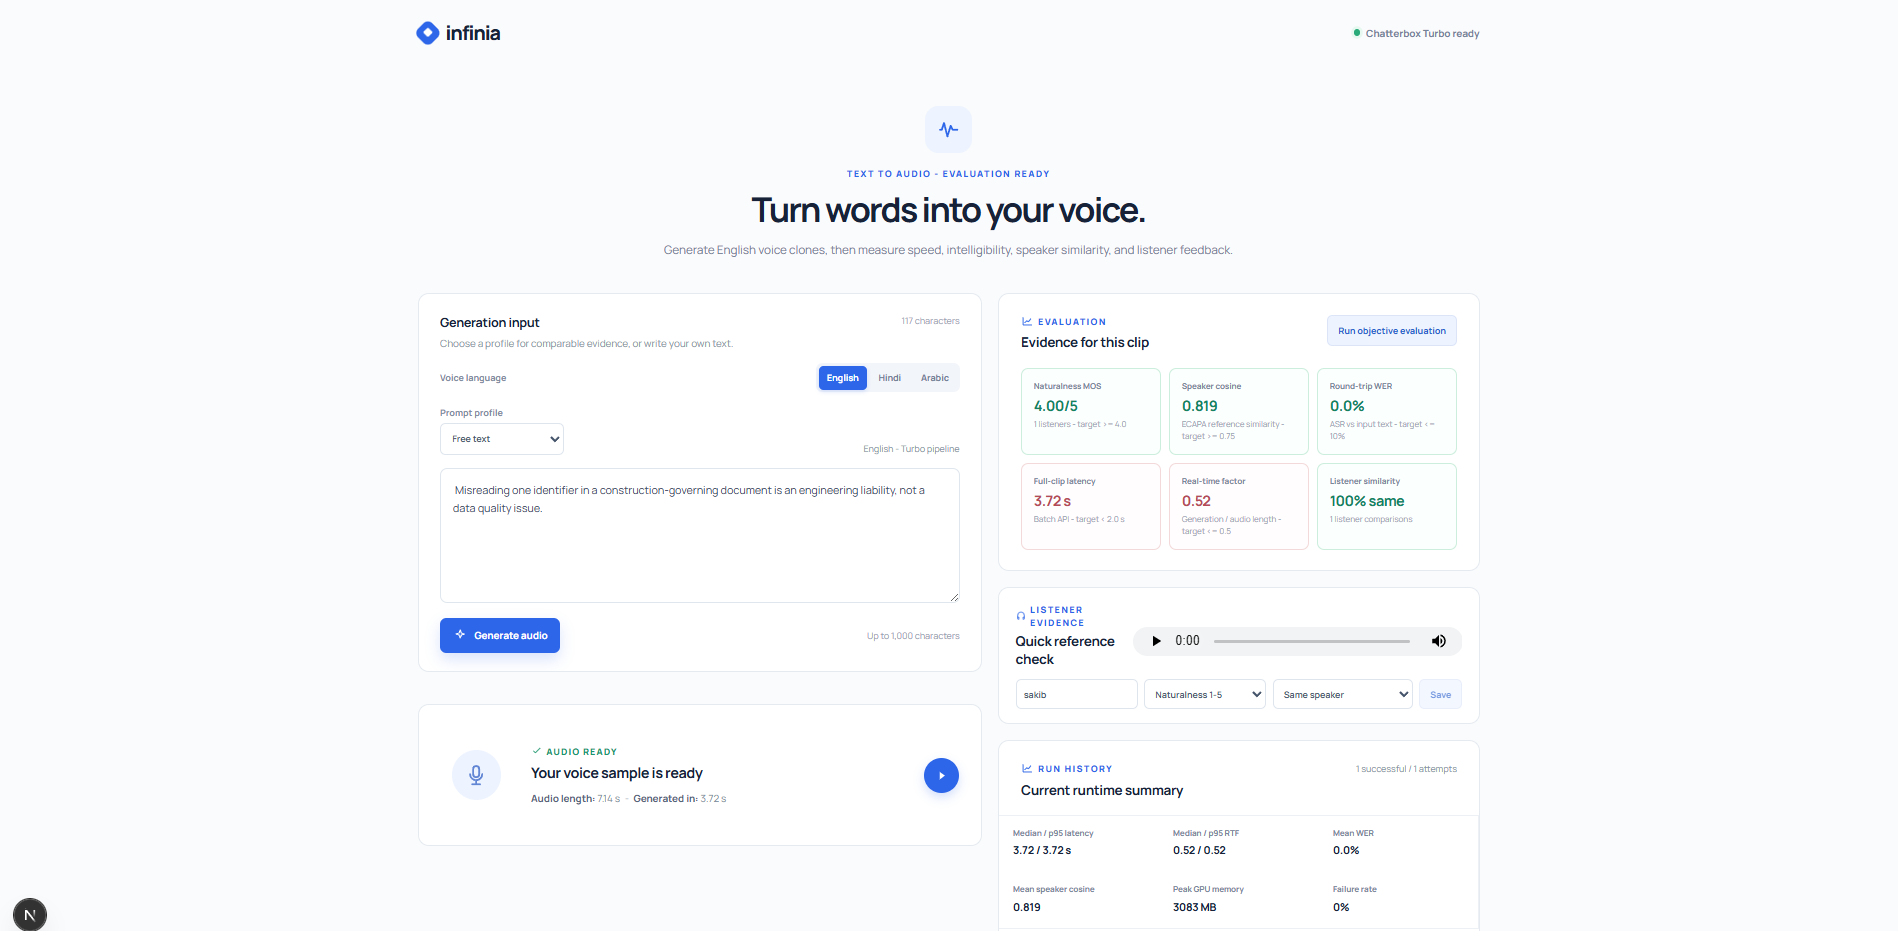
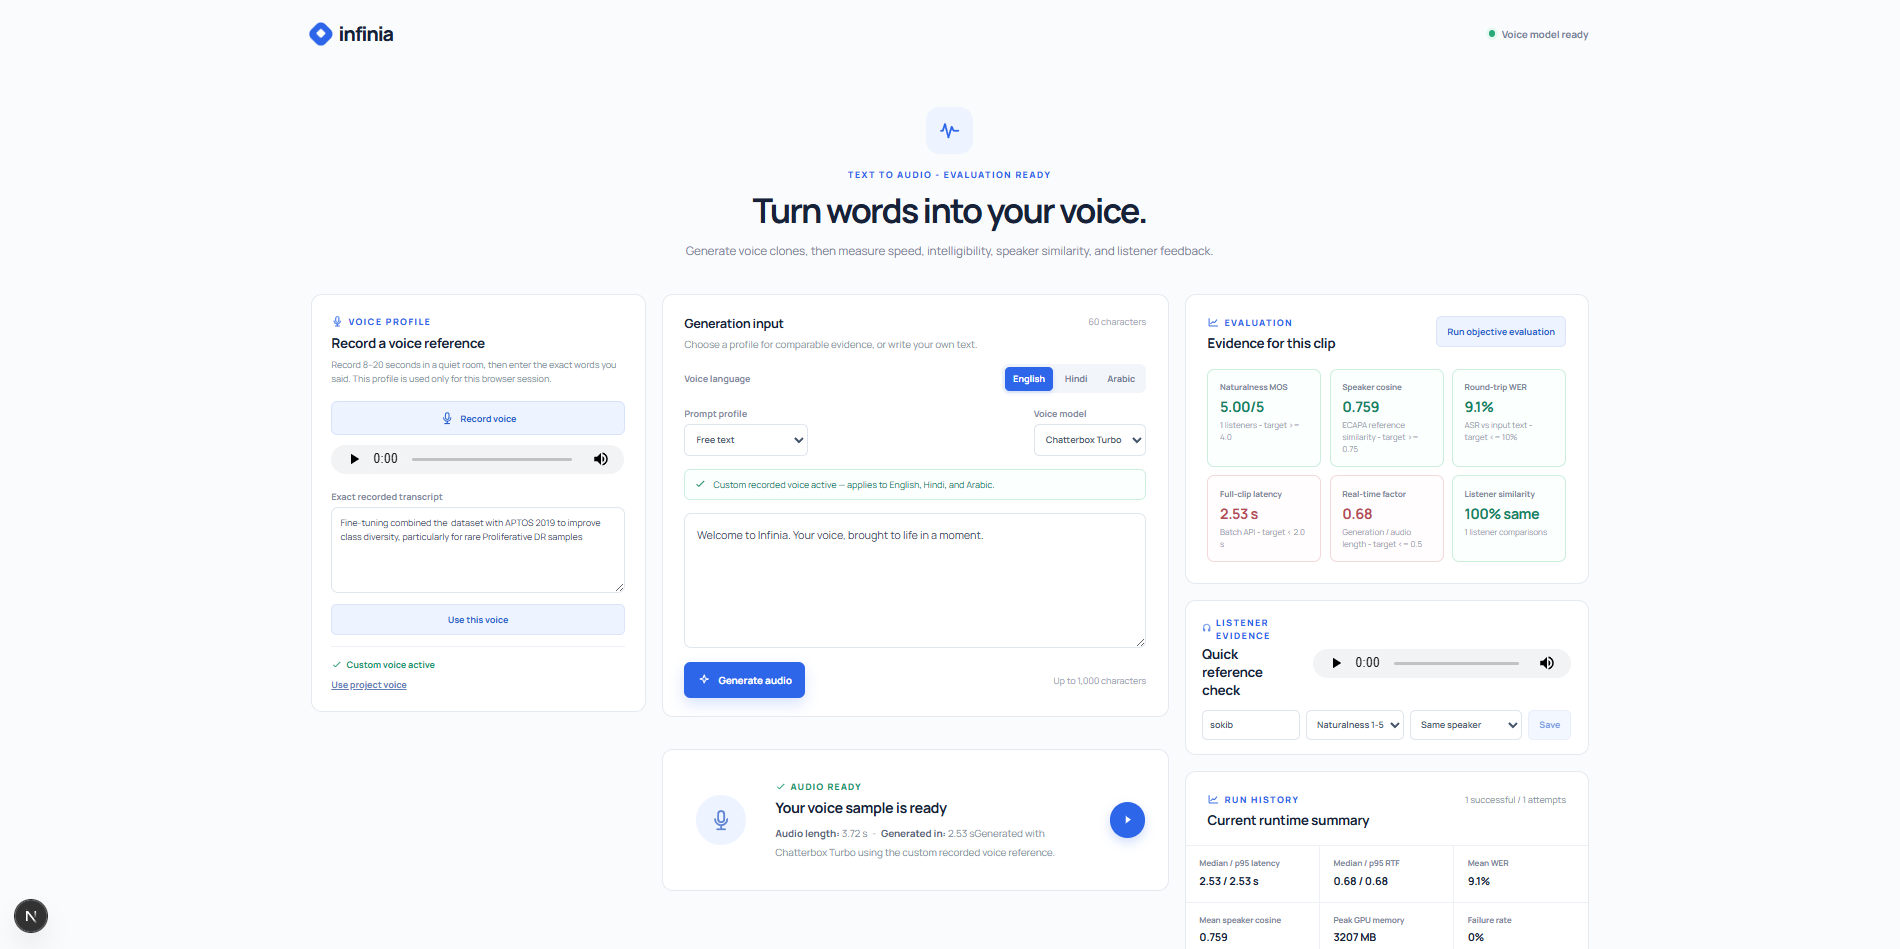
docs: refresh UI screenshot and results table

diff --git a/README.md b/README.md
@@ -94,14 +94,14 @@ relying on aggregate metrics alone.
 The repository does **not** yet contain a completed six-condition benchmark.
 The observed UI values below are retained as single-run evidence only; they do
 not replace the fixed-prompt, repeated, blinded benchmark protocol. `—` means
-not measured; `not demonstrated` is different from a passing streaming result.
+not measured.
 
-| Language | Model | MOS | Speaker cosine / human A/B | Short-prompt full clip | TTFA | RTF | WER | Section 3 status |
-|---|---|---:|---|---:|---|---:|---:|---|
-| English | Chatterbox Turbo | 4.00 / 5† | 0.823 / 1 of 1 same† | 2.66 s† | Not demonstrated (batch API) | 0.67† | 9.1%† | Incomplete; one UI run, latency and RTF miss targets |
-| Arabic | Chatterbox Multilingual V2 | 4.00 / 5† | 0.796 / 1 of 1 same† | 9.85 s† | Not demonstrated (batch API) | 1.55† | 0.0%† | Incomplete; one UI run, latency and RTF miss targets |
-| Hindi | Chatterbox Multilingual V2 | 4.00 / 5† | 0.757 / 1 of 1 same† | 46.31 s† | Not demonstrated (batch API) | 8.30† | 50.0%† | Incomplete; one UI run, latency, RTF, and WER miss targets |
-| Hindi | IndicF5 | 5.00 / 5† | 0.686 / 1 of 1 same† | 9.23 s† | Not demonstrated (batch API) | 2.75† | 0.0%† | Incomplete; one custom-reference UI run; latency and RTF miss targets |
+| Language | Model | MOS | Speaker cosine / human A/B | Short-prompt full clip | RTF | WER |
+|---|---|---:|---|---:|---:|---:|
+| English | Chatterbox Turbo | 4.00 / 5† | 0.823 / 1 of 1 same† | 2.66 s† | 0.67† | 9.1%† |
+| Arabic | Chatterbox Multilingual V2 | 4.00 / 5† | 0.796 / 1 of 1 same† | 9.85 s† | 1.55† | 0.0%† |
+| Hindi | Chatterbox Multilingual V2 | 4.00 / 5† | 0.757 / 1 of 1 same† | 46.31 s† | 8.30† | 50.0%† |
+| Hindi | IndicF5 | 5.00 / 5† | 0.686 / 1 of 1 same† | 9.23 s† | 2.75† | 0.0%† |
 
 † Observed in the local UI on an NVIDIA GeForce RTX 3050 Laptop GPU, using one
 free-text generation per condition. MOS and the same-speaker result each come
@@ -109,9 +109,8 @@ from one listener and are not blinded A/B evidence. The Hindi IndicF5 row used
 a browser-recorded custom reference; the other retained rows used the project
 reference, so they are not a controlled A/B model comparison. The full-clip
 values are not the versioned short-latency benchmark prompt, and therefore
-cannot support a Section 3 pass claim. The default benchmark uses batch APIs, so `ttfa_s` is
-intentionally `null`; full-clip latency must never be reported as streaming
-TTFA.
+cannot support a Section 3 pass claim. The default benchmark uses batch APIs;
+full-clip latency must never be reported as streaming TTFA.
 
 When a full run is complete, regenerate
 `outputs/eval/results_summary.csv` and copy its values into